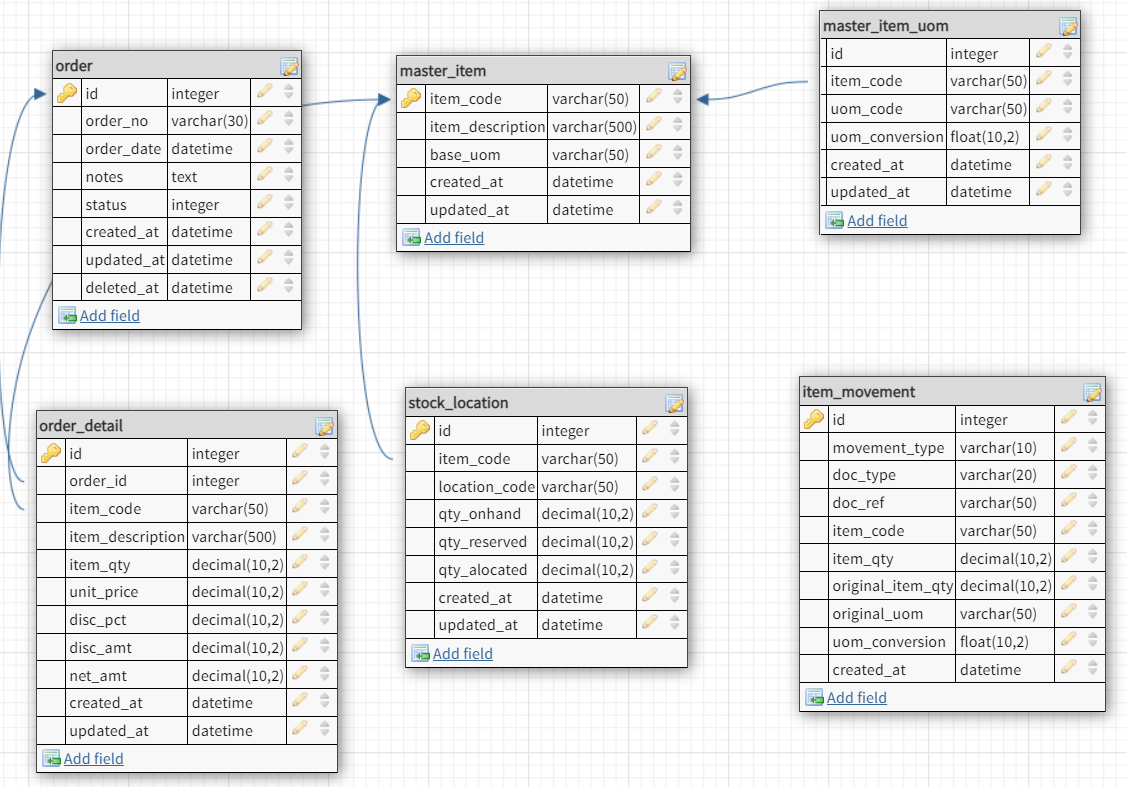
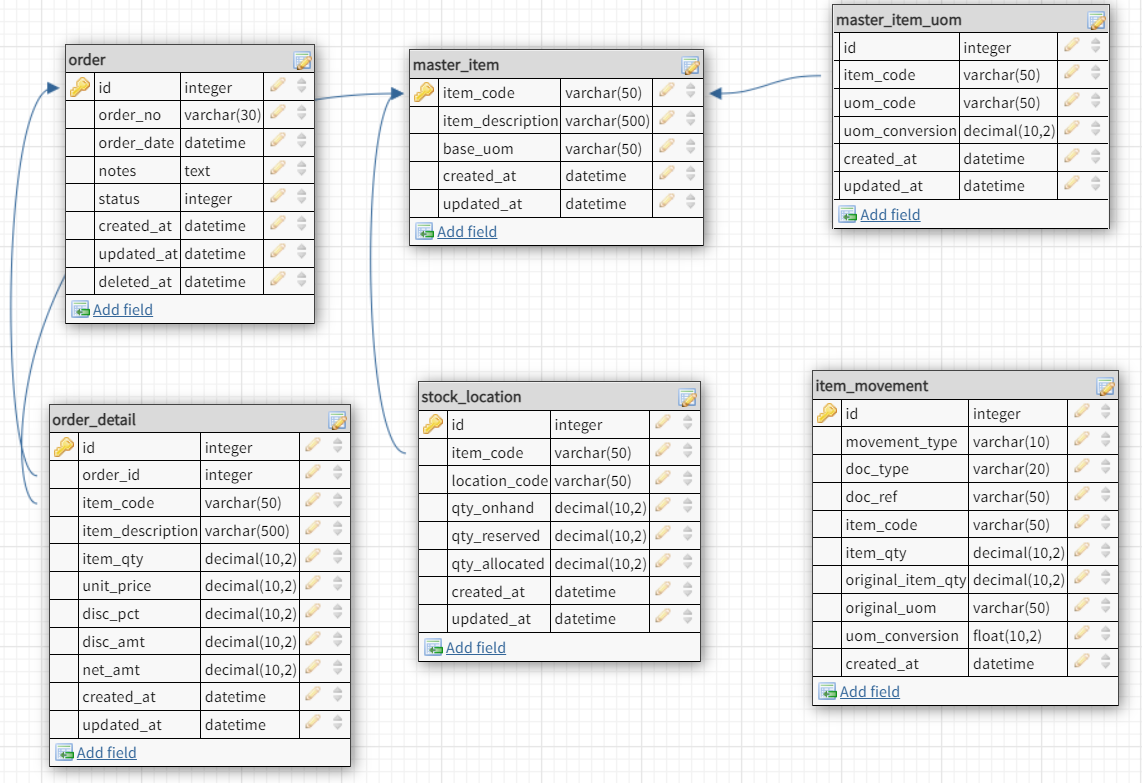
add model code

Changed region(s): [[0.0, 0.0, 0.9938, 1.0], [0.6832, 0.4598, 0.9938, 0.9195]]

diff --git a/src/models/item_movement.js b/src/models/item_movement.js
@@ -1,0 +1,20 @@
+const { DataTypes } = require('sequelize');
+const { db } = require('../../utils');
+
+const Model = db.define('item_movement', {
+    movement_type: DataTypes.STRING(10),   // IN or OUT
+    doc_type: DataTypes.STRING(20),        // related GI or GR 
+    doc_ref: DataTypes.STRING(50),
+    item_code: DataTypes.STRING(50),
+    item_qty: DataTypes.DECIMAL(10, 2),
+    item_uom: DataTypes.STRING(50),
+    original_item_qty: DataTypes.DECIMAL(10, 2),
+    original_uom: DataTypes.STRING(50),
+    uom_conversion: DataTypes.DECIMAL(10, 2),
+}, {
+    freezeTableName: true,
+    createdAt: 'created_at',
+    updatedAt: 'updated_at',
+});
+
+module.exports = Model;

diff --git a/src/models/order_detail.js b/src/models/order_detail.js
@@ -1,0 +1,19 @@
+const { DataTypes } = require('sequelize');
+const { db } = require('../../utils');
+
+const Model = db.define('order_detail', {
+    order_id: DataTypes.INTEGER(),
+    item_code: DataTypes.STRING(50),
+    item_description: DataTypes.STRING(500),
+    item_qty: DataTypes.DECIMAL(10, 2),
+    unit_price: DataTypes.DECIMAL(10, 2),
+    desc_pct: DataTypes.DECIMAL(10, 2),
+    desc_amt: DataTypes.DECIMAL(10, 2),
+    net_amt: DataTypes.DECIMAL(10, 2)
+}, {
+    freezeTableName: true,
+    createdAt: 'created_at',
+    updatedAt: 'updated_at',
+});
+
+module.exports = Model;

diff --git a/src/models/stock_location.js b/src/models/stock_location.js
@@ -1,0 +1,16 @@
+const { DataTypes } = require('sequelize');
+const { db } = require('../../utils');
+
+const Model = db.define('master_item_uom', {
+    item_code: DataTypes.STRING(50),
+    location_code: DataTypes.STRING(50),
+    qty_onhand: DataTypes.DECIMAL(10, 2),
+    qty_reserved: DataTypes.DECIMAL(10, 2),
+    qty_allocated: DataTypes.DECIMAL(10, 2),
+}, {
+    freezeTableName: true,
+    createdAt: 'created_at',
+    updatedAt: 'updated_at',
+});
+
+module.exports = Model;

diff --git a/src/models/order.js b/src/models/order.js
@@ -1,0 +1,17 @@
+const { DataTypes } = require('sequelize');
+const { db } = require('../../utils');
+
+const Model = db.define('order', {
+    order_no: DataTypes.STRING(30),
+    order_date: DataTypes.DATE(),
+    notes: DataTypes.TEXT(),
+    status: DataTypes.INTEGER(),
+}, {
+    paranoid: true,
+    freezeTableName: true,
+    createdAt: 'created_at',
+    updatedAt: 'updated_at',
+    deletedAt: 'deleted_at',
+});
+
+module.exports = Model;

diff --git a/src/models/master_item.js b/src/models/master_item.js
@@ -1,0 +1,14 @@
+const { DataTypes } = require('sequelize');
+const { db } = require('../../utils');
+
+const Model = db.define('master_item', {
+    item_code: { primaryKey: true, type: DataTypes.STRING(50) },
+    item_description: DataTypes.STRING(500),
+    base_uom: DataTypes.STRING(50),
+}, {
+    freezeTableName: true,
+    createdAt: 'created_at',
+    updatedAt: 'updated_at',
+});
+
+module.exports = Model;

diff --git a/src/models/master_item_uom.js b/src/models/master_item_uom.js
@@ -1,0 +1,14 @@
+const { DataTypes } = require('sequelize');
+const { db } = require('../../utils');
+
+const Model = db.define('master_item_uom', {
+    item_code: DataTypes.STRING(50),
+    uom_code: DataTypes.STRING(50),
+    uom_conversion: DataTypes.DECIMAL(10, 2),
+}, {
+    freezeTableName: true,
+    createdAt: 'created_at',
+    updatedAt: 'updated_at',
+});
+
+module.exports = Model;
